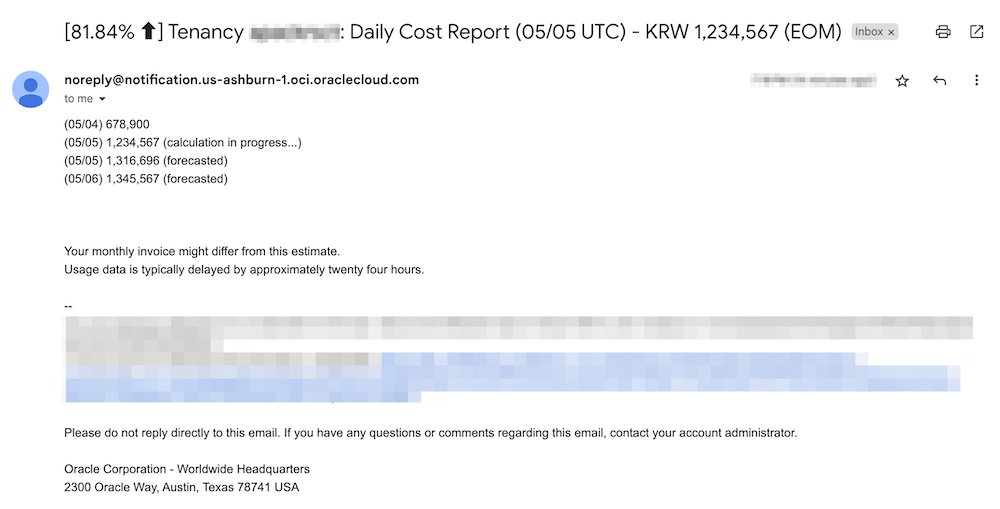
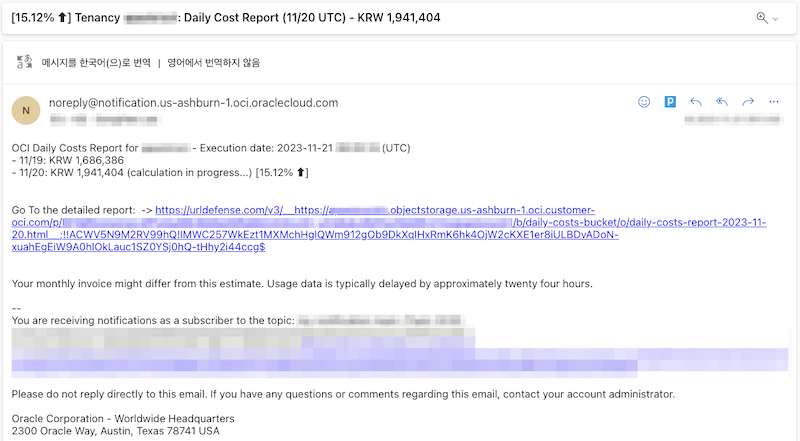
Document 업데이트

diff --git a/README.md b/README.md
@@ -30,24 +30,37 @@
 7. Copy the Topic OCID.
 
 
+## Create a Object Storage Bucket
+
+1. Open the navigation menu and click **Storage**. Under **Object Storage & Archive Storage**, click **Bucket**.
+
+2. Click **Create Bucket**. Enter the following:
+
+    - Bucket Name: ex, `daily-costs-bucket`
+
+
 ## Create a compute instance
 
-1. Open the navigation menu and click Compute. Under Compute, click Instances
+1. Open the navigation menu and click **Compute**. Under **Compute**, click **Instances**.
 
 2. Create a compute instance
+
+3. Copy the instance's OCID.
 
 
 ## Create a Policy for this compute to run the script.
 
 1. Login to your OCI Cloud console
 
-2. Create new Policy: scheduled-report-daily-costs-policy with Statements:
+2. Create new Policy: `scheduled-report-daily-costs-policy` with Statements:
 
-    - Update the statement with your compute instance id
+    - Update request.instance.id with your compute instance id
+    - Update target.bucket.name with your Bucket name
 
     ```
     allow any-user to read usage-reports in tenancy where request.instance.id='ocid1.instance.oc1.iad.aaaaaaaa.....'
-    allow any-user to use ons-family in tenancy where request.instance.id='ocid1.instance.oc1.iad.aaaaaaaa.....'
+    allow any-user to use ons-family in compartment oci-hol where request.instance.id='ocid1.instance.oc1.iad.aaaaaaaa.....'
+    allow any-user to manage objects in compartment oci-hol where all {request.instance.id='ocid1.instance.oc1.iad.aaaaaaaa.....', target.bucket.name='daily-costs-bucket', any {request.permission='OBJECT_CREATE', request.permission='OBJECT_DELETE', request.permission='OBJECT_READ', request.permission='PAR_MANAGE'}}
     ```
 
 ## Setup Report Daily Costs scripts
@@ -67,21 +80,27 @@
     git clone https://github.com/TheKoguryo/report_daily_costs.git
     ```
 
-4. Update the value of ONS_TOPIC_ID to your Topic OCID in run_report_daily_costs.sh
+4. Update the value of ONS_TOPIC_ID to your Topic OCID and the value of BUCKET_NAME to your Bucket in run_report_daily_costs.sh
 
     ```
     export ONS_TOPIC_ID=ocid1.onstopic.oc1.iad.aaaaaaaa.....
+    export BUCKET_NAME=daily-costs-bucket
     ```
 
-5. Update the value of alert-threshold in run_report_daily_costs.sh
+5. Update the value of alert-threshold, alert_threshold_n in run_report_daily_costs.sh
 
     ```
     # cron schedule - 0 * * * * 
-    # Notify at 23:00
+    # Notify at 23:00 UCT
     #
     # Check the yesterday's cost every hours that is under being calculated.
-    # If that cost is more than the cost of the day before yesterday and the difference is over threshold, notify at that time.
-    python3 $APPDIR/report_daily_costs.py -ip --ons_topic_id $ONS_TOPIC_ID --alert-threshold 50
+    * (Your monthly invoice might differ from this estimate. Usage data is typically delayed by approximately twenty four hours.)
+    # at 23:00 UCT: Notify the yesterday's cost
+    # at 00:00 UCT ~ 22:00 UCT: If the yesterday's cost is more than the cost of the day before yesterday and the difference is over threshold, notify at that time.
+    # at 00:00 UCT ~ 22:00 UCT: At the same day, another notification will be occurred when the new difference is over the first notified difference + second threshold(alert_threshold_n)
+
+    python3 $APPDIR/report_daily_costs_v2.py -ip --ons_topic_id $ONS_TOPIC_ID --bucket_name $BUCKET_NAME --alert_threshold 30 --alert_threshold_n 20
+
     ```
 
 6. Create a cron job. In the terminal, type:
@@ -120,7 +139,33 @@
 
 10. When the cost is more than thread or At 23:00 Every day. 
 
-    ![Notification Email](notification-email.png)
+    - Email
+
+        ![Notification Email](notification-email.png)
+
+    - Detailed Report
+    
+        ![OCI Daily Costs Report](oci-daily-costs-report.png)
+
+
+## Notification Topic - Another Subscription
+
+1. Click the created topic
+
+2. Click **Create Subscription**. Enter the following:
+
+    - Protocol: Slack
+
+3. Configure the required setting as the following.
+
+    - [How to send notification on Slack using Webhooks](https://learnoci.cloud/how-to-send-notification-on-slack-using-webhooks-5e36f1d46295)
+
+4. You can see the notification message in your slack
+
+    - Slack
+
+        ![Notification Slack](notification-slack.png)
+
 
 
 ## Related Documents
